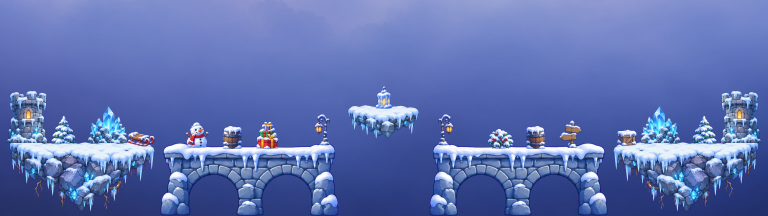
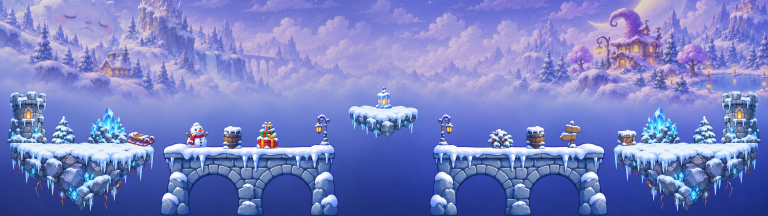
Sonho Nevado: fundo panorâmico único em duas metades, sem faixa repetida
Claude-Session: https://claude.ai/code/session_01Qghigksom72nNn7R5uKPfk

diff --git a/shared/maps.ts b/shared/maps.ts
@@ -70,7 +70,7 @@ export const MAP_DEFINITIONS:Record<CanonicalMapId,MapDefinition>={
   objects:[{id:'statue-a',kind:'statue',x:104,y:552,scale:.85,layer:5},{id:'statue-b',kind:'statue',x:1432,y:552,scale:.85,layer:5},{id:'crystal-a',kind:'crystal',x:171,y:551,scale:.65,layer:5,region:'celestial-left-crystal',animated:true},{id:'crystal-b',kind:'crystal',x:1365,y:551,scale:.65,layer:5,region:'celestial-right-crystal',animated:true},{id:'flag-a',kind:'flag',x:570,y:540,scale:1,layer:5,animated:true},{id:'flag-b',kind:'flag',x:966,y:540,scale:1,layer:5,animated:true},{id:'crystal-front-a',kind:'crystal',x:35,y:890,scale:2,layer:6,animated:true},{id:'crystal-front-b',kind:'crystal',x:1503,y:890,scale:1.8,layer:6,animated:true}]
  },
  snow:{...common,dimensions:{width:3072,height:864},spawns:[[1000,860,1140,720],[2072,2212,1932,2352]],id:'snow',name:'Sonho Nevado',subtitle:'Pontes de pedra nevadas · Destrutível',color:'#8fb8ff',theme:'snow',lighting:{sky:'#5d6fb8',horizon:'#b9c4ee',ambient:'#dfe8ff'},audio:{ambience:'wind',impact:{earth:'dust'}},
-  art:{background:'/assets/maps/snow/background.webp',midground:'/assets/maps/snow/background.webp',props:'/assets/maps/garden-props.png',terrain:'/assets/maps/snow/terrain-world.png',mid:'/assets/maps/snow/mid.webp'},
+  art:{background:'/assets/maps/snow/background.webp',midground:'/assets/maps/snow/background.webp',props:'/assets/maps/garden-props.png',terrain:'/assets/maps/snow/terrain-world.png'},
   regions:SNOW_REGIONS,objects:[]
  }
 };
